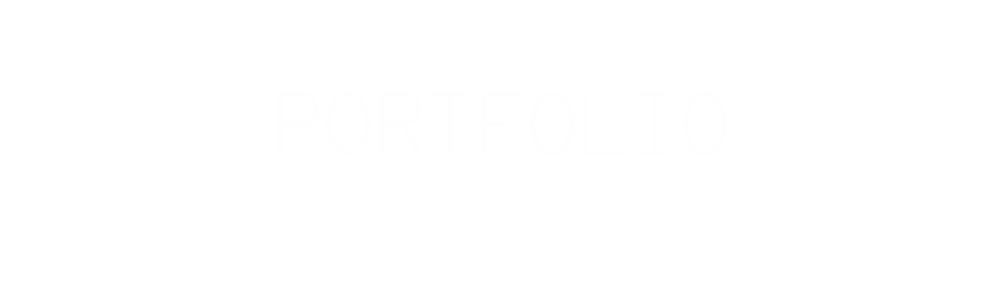
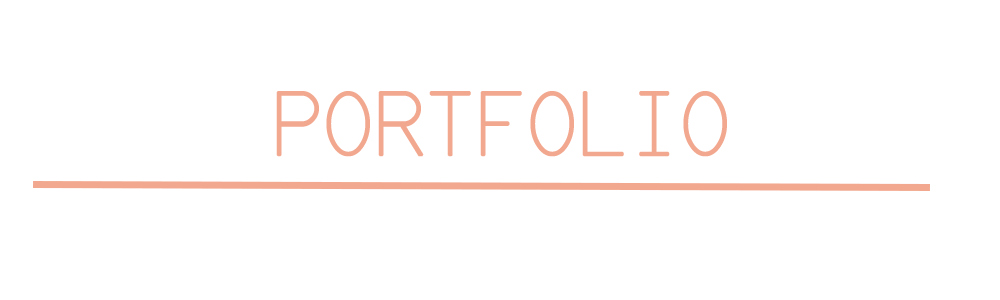
Update information in my abilities page

Changed region(s): [[0.279, 0.3, 0.744, 0.54], [0.031, 0.6, 0.93, 0.66]]

diff --git a/Style/Style.css b/Style/Style.css
@@ -1061,12 +1061,12 @@
 				
 				
 				
-/*message page*/
+/*portfolio page*/
  .portfolio { background-color: #FFFFFF;
 			position:absolute; 
 			top: 3758px;
 			width:100%; 
-			height:100%; 
+			height:650px; 
 			overflow: hidden; }					
 		 
  .portfolio.title { position: absolute;
@@ -1075,3 +1075,29 @@
 					width: 400px;
 					height: 200px;
 					overflow: hidden; }
+					
+/*contact page*/
+ .contact { background-color: #FFFFFF;
+			position:absolute; 
+			top: 4408px;
+			width:100%; 
+			height:500px; }					
+		 
+ .contact.title { position: absolute;
+				  top: 0px;
+				  left: 565px;
+				  width: 400px;
+				  height: 200px; }
+				  
+ .facebook { position: absolute;
+			 top: 250px;
+			 left: 305px;
+			 width: 130px;
+			 height: 130px; }
+				  
+ .contact.bottom { background-color: #F2A88F; 
+				   position: absolute;  
+				   left: 0px; 
+				   top: 300px;
+				   width: 100%; 
+				   height: 200px; }	

diff --git a/Index.html b/Index.html
@@ -373,6 +373,21 @@
 		
 		
 		
+		
+		
+		<div id="contactPage" class="contact">
+			<div class="portfolio title">
+				<img src="Images/contactTitle.png" style="width:100%; height:100%;" alt="Contact">
+			</div> 
+			<div class="contact bottom"></div>
+			
+			<div class="facebook">
+				<img src="Images/facebook.png" style="width:100%; height:100%;" alt="Facebook">
+			</div>
+		</div>
+		
+		
+		
 
 		
    </body>
